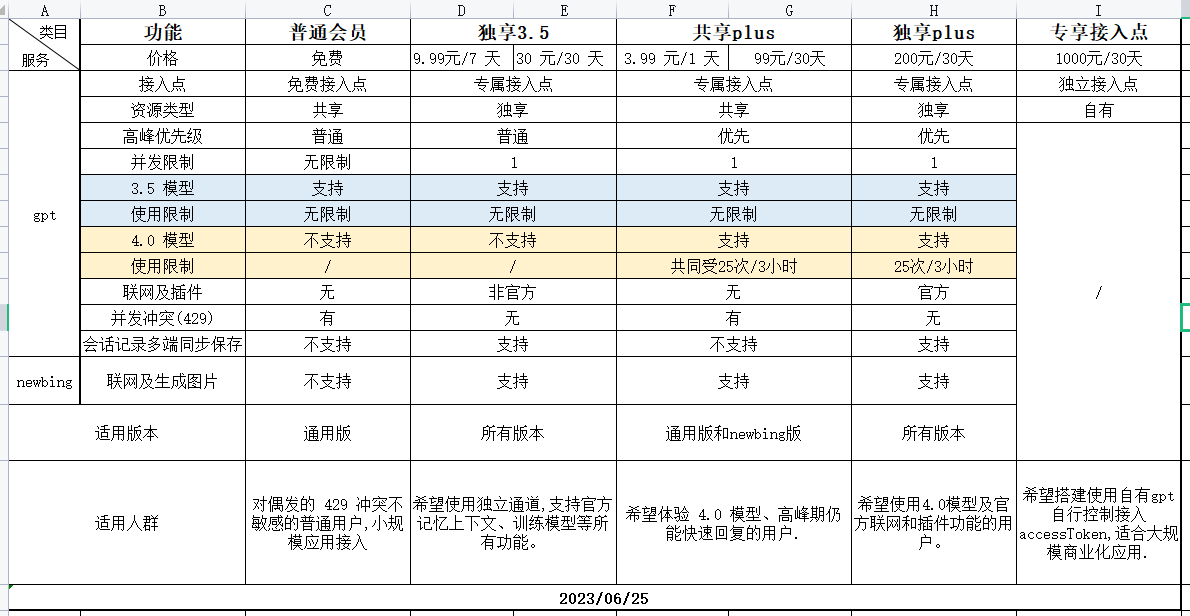
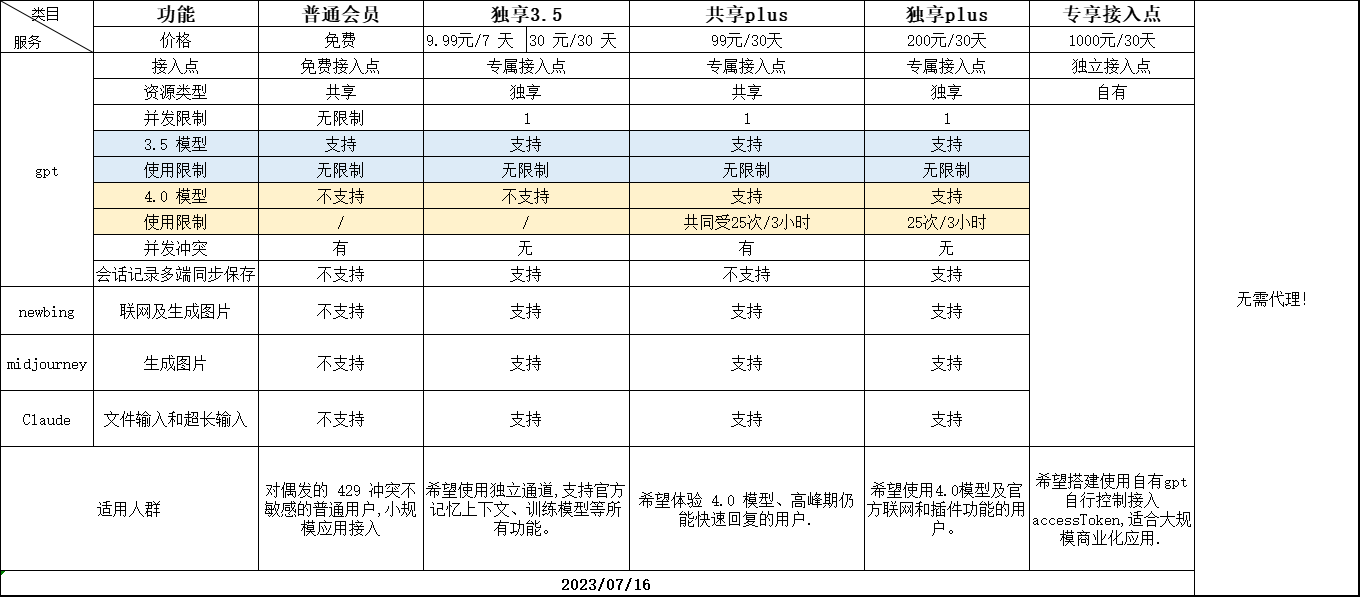
更新服务说明

diff --git a/docs/.vuepress/public/arkose.html b/docs/.vuepress/public/arkose.html
@@ -1,0 +1,47 @@
+<html>
+<head>
+  <!--
+    Include the Arkose Labs API in the <head> of your page. In the example below, remember to
+    replace <company> with your company's personalized Client API URL name, and replace <YOUR PUBLIC KEY> with the public key supplied to you by Arkose Labs.
+    e.g. <script src="//client-api.arkoselabs.com/v2/11111111-1111-1111-1111-111111111111/api.js" data-callback="setupEnforcement" async defer></script>
+  -->
+  <script src="//client-api.arkoselabs.com/v2/35536E1E-65B4-4D96-9D97-6ADB7EFF8147/api.js" data-callback="setupEnforcement" async defer></script>
+  <link rel="shortcut icon" href="#">
+  <meta charset="UTF-8">
+</head>
+<body>
+<!--
+  The trigger element can exist anywhere in your page and can be added to the DOM at any time.
+-->
+<button id="enforcement-trigger">
+  trigger element
+</button>
+<div id="token"></div>
+<!--
+  To configure the enforcement place a script tag just before the closing <body> tag and define the
+  callback as a global function.
+-->
+<script>
+  /*
+    This global function will be invoked when the API is ready. Ensure the name is the same name
+    that is defined on the attribute `data-callback` in the script tag that loads the api for your
+    public key.
+  */
+  function setupEnforcement(myEnforcement) {
+    myEnforcement.setConfig({
+      selector: '#enforcement-trigger',
+      onCompleted: function(response) {
+	console.log(response);
+    document.cookie = "token=" + response.token;
+	var element=document.getElementById("token");
+	element.innerHTML=response.token;
+      }
+    });
+  }
+</script>
+<script>
+
+
+</script>
+</body>
+</html>

diff --git a/docs/.vuepress/config.js b/docs/.vuepress/config.js
@@ -14,7 +14,7 @@ module.exports = {
     nav: [
       { text: "首页", link: "/" },
       { text: "使用入口", link: "/ai/" },
-      { text: "使用教程", link: "/tutorial/" },
+      // { text: "使用教程", link: "/tutorial/" },
       // { text: "网页版", link: "/web/" },
       // { text: "客户端下载", link: "/download/" },
       { text: "会员服务", link: "/plus/" },

diff --git a/docs/ai/README.md b/docs/ai/README.md
@@ -36,13 +36,20 @@ sidebar: false
 试运行服务,不保证稳定性。   </br>
 <img src="/images/newbing.png"></img>
 </navcard>
+</el-row>
+<el-row  :gutter="10">
 <navcard CardName="MidJourney测试版(付费)" Url="https://mj.xyhelper.com.cn">
 最强大的AI绘图引擎。 </br>
-面向独享会员开放试运行。 </br>
+面向独享及共享会员开放试运行。 </br>
 试运行服务,不保证稳定性。   </br>
 <img src="/images/mj.png"></img>
 </navcard>
-
+<navcard CardName="Claude测试版(付费)" Url="https://claude.xyhelper.com.cn">
+支持100K TOKEN. 支持文件上传分析.</br>
+面向独享及共享会员开放试运行。 </br>
+试运行服务,不保证稳定性。   </br>
+<img src="/images/claude.png"></img>
+</navcard>
 </el-row>
 
 <!-- <ClientOnly>

diff --git a/docs/plus/README.md b/docs/plus/README.md
@@ -12,11 +12,8 @@
 
 ## 如何使用
 
-购买会员后,您将接收到会员专属接入点地址及`accessToken`,请妥善保管。`accessToken`是您的会员身份凭证,请勿泄露。
+购买会员后,您将接收到会员专属`accessToken`,请妥善保管。`accessToken`是您的会员身份凭证,请勿泄露。
 
-在 xyhelper 客户端设置中,修改`BaseURI`为会员专属接入点地址,修改`accessToken`为您的会员身份凭证。
-
-`accessToken`有效期为`30天`,到期后请重新购买会员。
 
 ## 如何购买
 

diff --git a/docs/developer/README.md b/docs/developer/README.md
@@ -74,7 +74,7 @@ async function example() {
 ```
 ## 开发交流群
 
-![微信群](./wechat-group.png)
+![微信群](/xyhelperkf.png)
 
 ## 作品推荐
 
